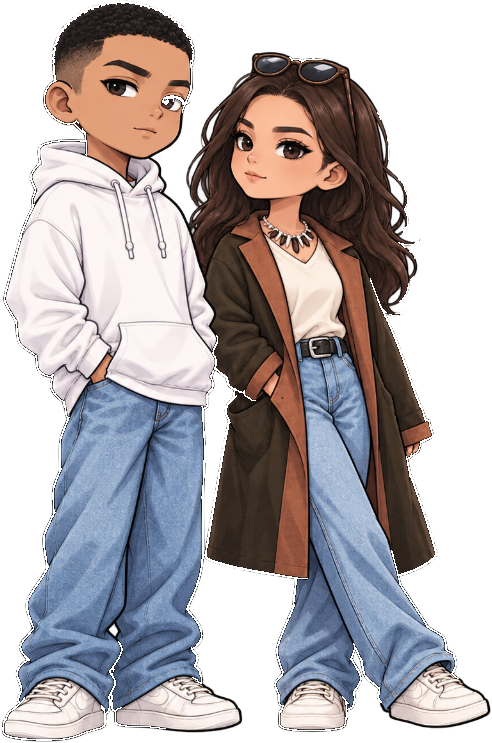
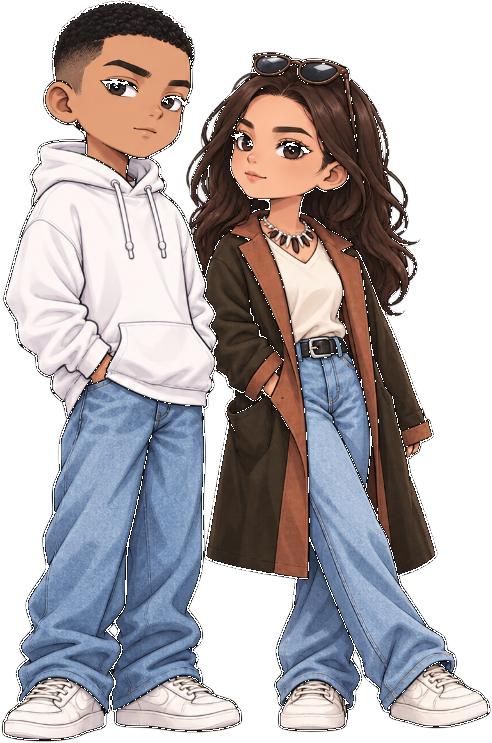
Layer mobile header elements and preserve character details

diff --git a/styles.css b/styles.css
@@ -308,64 +308,99 @@ button, input {
 
 @media (max-width: 640px) {
   .app-header {
-    height: 238px;
-    grid-template-columns: 52px minmax(0, 1fr) 108px;
-    grid-template-rows: 78px 58px;
-    gap: 8px;
-    padding: 12px 8px;
+    height: 216px;
+    display: block;
+    padding: 0;
+    overflow: visible;
     background: white;
     border-bottom: 0;
   }
+  .title-search-area { display: block; }
   .menu-open {
-    grid-column: 1;
-    grid-row: 1 / 3;
-    width: 52px;
-    height: 52px;
-    align-self: center;
-    gap: 7px;
+    position: absolute;
+    z-index: 6;
+    top: 8px;
+    left: 4px;
+    width: 44px;
+    height: 44px;
+    gap: 6px;
     border-radius: 0;
     background: transparent;
   }
   .menu-open span { width: 28px; height: 2px; }
-  .title-search-area { display: contents; }
   .brand-title {
-    grid-column: 2;
-    grid-row: 1;
-    height: 78px;
+    position: absolute;
+    z-index: 5;
+    top: 8px;
+    left: 48px;
+    right: 0;
+    height: 112px;
+    display: flex;
+    flex-direction: column;
+    align-items: flex-start;
+    justify-content: flex-start;
     border: 0;
-    border-radius: 0;
-    overflow: visible;
-    background: white;
+    background: transparent;
     box-shadow: none;
+    pointer-events: none;
   }
   .brand-title > span {
-    font-size: clamp(29px, 10vw, 40px);
+    max-width: calc(100% - 112px);
+    font-size: clamp(34px, 12vw, 48px);
+    line-height: 1.05;
     white-space: nowrap;
-    transform: translateX(-2px);
+  }
+  .brand-title small {
+    display: block;
+    margin-top: 3px;
+    max-width: calc(100% - 112px);
+    color: #604d78;
+    font-family: "Kaushan Script", cursive;
+    font-size: 10px;
+    line-height: 1.2;
+    white-space: nowrap;
   }
   #address-search {
-    grid-column: 1 / 3;
-    grid-row: 2;
-    height: 46px;
-    align-self: center;
+    position: absolute;
+    z-index: 4;
+    top: 126px;
+    left: 10px;
+    right: 10px;
+    height: 48px;
     border: 0;
     border-radius: 8px;
     box-shadow: 0 0 0 1px #dbe3e8;
   }
-  #address-search button { padding-inline: 10px; font-size: 12px; }
-  #address-input { padding-inline: 9px; font-size: 14px; }
+  #address-search button {
+    padding-inline: 12px;
+    background: #2563eb;
+    border-left: 0;
+    border-radius: 0 7px 7px 0;
+    color: white;
+    font-size: 13px;
+  }
+  #address-input { padding-inline: 10px; font-size: 14px; }
   .couple-icon {
-    grid-column: 3;
-    grid-row: 1 / 3;
-    width: 108px;
-    height: 214px;
-    align-self: end;
+    position: absolute;
+    z-index: 3;
+    top: 4px;
+    right: 2px;
+    width: 112px;
+    height: 190px;
     border: 0;
     border-radius: 0;
     object-fit: contain;
     object-position: center bottom;
     background: transparent;
-    filter: drop-shadow(0 2px 1px rgba(15, 11, 8, 0.08));
+    filter: none;
   }
-  #map { height: calc(100vh - 238px); }
+  #search-candidates {
+    position: absolute;
+    z-index: 7;
+    top: 176px;
+    left: 10px;
+    right: 10px;
+    margin: 0;
+  }
+  #map { height: calc(100vh - 216px); }
 }

diff --git a/index.html b/index.html
@@ -54,6 +54,7 @@
     <div class="title-search-area">
       <div class="brand-title" aria-label="Memory Map">
         <span>Memory Map</span>
+        <small>おじいちゃん おばあちゃんになっても続く</small>
       </div>
       <form id="address-search">
         <input
@@ -78,7 +79,7 @@
   </script>
   <script src="./search-config.js"></script>
   <script src="./firebase-config.js"></script>
-  <script src="./app.js?v=202611011431"></script>
-  <script type="module" src="./firebase-auth.js?v=202611011431"></script>
+  <script src="./app.js?v=202611011448"></script>
+  <script type="module" src="./firebase-auth.js?v=202611011448"></script>
 </body>
 </html>
